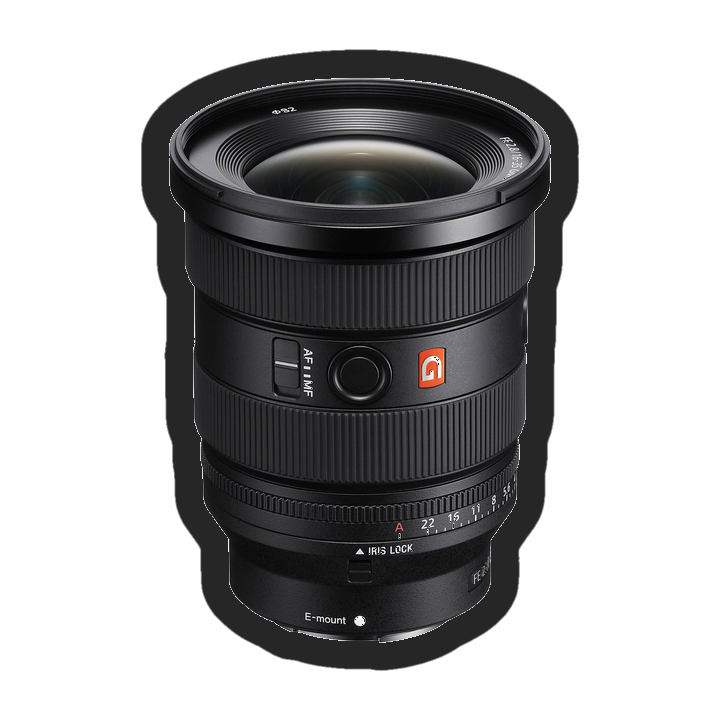
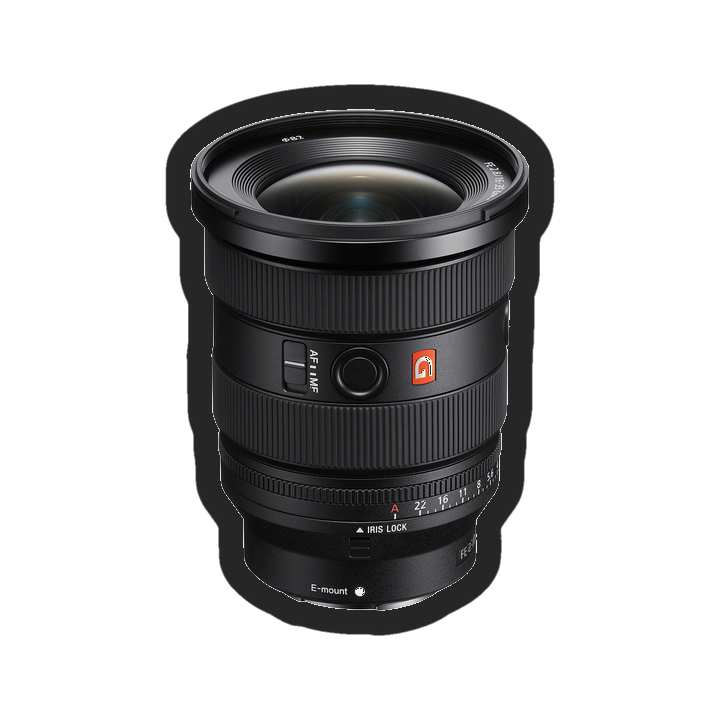
Fix 16–35 shadow clipping and swap in the Urth Arkose packshot.

Changed region(s): [[0.1833, 0.0611, 0.825, 0.9472]]

diff --git a/scripts/stickerify.ts b/scripts/stickerify.ts
@@ -28,6 +28,8 @@ type StickerifyOptions = {
   border?: number
   outSize?: number
   maxSide?: number
+  /** Extra transparent canvas margin as a fraction of the die-cut size. Default 0.05. */
+  margin?: number
   /** Normalized crop box: left, top, right, bottom in 0–1. */
   crop?: [number, number, number, number]
   /** Vinyl fill RGB. Default white. Use 38,38,38 for dark `--muted`. */
@@ -551,7 +553,8 @@ export async function stickerify(src: string, options: StickerifyOptions) {
     )
   }
 
-  let margin = Math.max(extra, Math.round(Math.max(cw, ch) * 0.05))
+  let marginFrac = options.margin ?? 0.05
+  let margin = Math.max(extra, Math.round(Math.max(cw, ch) * marginFrac))
   let side = Math.max(cw, ch) + margin * 2
   let canvas = Buffer.alloc(side * side * 4)
   let ox = ((side - cw) / 2) | 0
@@ -644,6 +647,7 @@ function parseArgs(argv: string[]) {
   let recolorVinylRgb: [number, number, number] | undefined
   let vinylRgb: [number, number, number] | undefined
   let tol: number | undefined
+  let margin: number | undefined
   let crop: [number, number, number, number] | undefined
   let positional: string[] = []
 
@@ -652,11 +656,12 @@ function parseArgs(argv: string[]) {
     if (arg === '--app') app = true
     else if (arg === '--help' || arg === '-h') {
       console.log(
-        'Usage: npm run stickerify -- [--app] [--mode auto|alpha] [--tol 36] [--crop l,t,r,b] [--vinyl r,g,b] [--recolor-vinyl r,g,b] <input> <output.png>',
+        'Usage: npm run stickerify -- [--app] [--mode auto|alpha] [--tol 36] [--margin 0.05] [--crop l,t,r,b] [--vinyl r,g,b] [--recolor-vinyl r,g,b] <input> <output.png>',
       )
       process.exit(0)
     } else if (arg === '--mode') mode = argv[++i] as Mode
     else if (arg === '--tol') tol = Number(argv[++i])
+    else if (arg === '--margin') margin = Number(argv[++i])
     else if (arg === '--recolor-vinyl') {
       let parts = argv[++i]!.split(',').map(Number)
       if (parts.length !== 3 || parts.some((n) => Number.isNaN(n))) {
@@ -684,7 +689,7 @@ function parseArgs(argv: string[]) {
 
   if (positional.length !== 2) {
     throw new Error(
-      'Usage: npm run stickerify -- [--app] [--mode auto|alpha] [--tol 36] [--crop l,t,r,b] [--vinyl r,g,b] [--recolor-vinyl r,g,b] <input> <output.png>',
+      'Usage: npm run stickerify -- [--app] [--mode auto|alpha] [--tol 36] [--margin 0.05] [--crop l,t,r,b] [--vinyl r,g,b] [--recolor-vinyl r,g,b] <input> <output.png>',
     )
   }
 
@@ -692,6 +697,7 @@ function parseArgs(argv: string[]) {
     app,
     mode,
     tol,
+    margin,
     crop,
     vinylRgb,
     recolorVinylRgb,
@@ -713,6 +719,7 @@ if (isMain) {
       dest: args.dest,
       mode: args.mode,
       tol: args.tol,
+      margin: args.margin,
       crop: args.crop,
       vinyl: args.vinylRgb,
     })

diff --git a/src/components/Sticker.tsx b/src/components/Sticker.tsx
@@ -73,22 +73,24 @@ export function Sticker({
         } as React.CSSProperties
       }
     >
-      <div className="relative isolate size-full">
+      {/*
+        Keep drop-shadow on this overflow-visible wrapper (not the <img>).
+        Filters on replaced images get clipped when the die-cut nearly fills
+        the box — tall upright stickers like the 16–35 were losing the shadow.
+      */}
+      <div className="relative isolate size-full overflow-visible drop-shadow-[0_4px_6px_rgb(0_0_0_/_0.10),0_2px_4px_rgb(0_0_0_/_0.10)]">
         <Image
           src={src}
           alt={alt}
           sizes={imageSizes}
-          className={cn(
-            'size-full object-contain drop-shadow-[0_4px_6px_rgb(0_0_0_/_0.10),0_2px_4px_rgb(0_0_0_/_0.10)]',
-            srcDark && 'dark:hidden',
-          )}
+          className={cn('size-full object-contain', srcDark && 'dark:hidden')}
         />
         {srcDark ? (
           <Image
             src={srcDark}
             alt={alt}
             sizes={imageSizes}
-            className="hidden size-full object-contain drop-shadow-[0_4px_6px_rgb(0_0_0_/_0.10),0_2px_4px_rgb(0_0_0_/_0.10)] dark:block"
+            className="hidden size-full object-contain dark:block"
           />
         ) : null}
       </div>

diff --git a/src/app/uses/tools.ts b/src/app/uses/tools.ts
@@ -107,7 +107,7 @@ export const toolGroups: ToolGroup[] = [
         scale: 0.86,
       },
       {
-        title: 'Urth backpack',
+        title: 'Urth Arkose backpack',
         href: 'https://amzn.to/49d888x',
         description:
           'Sleek and water resistant. Holds the daily tech essentials.',
